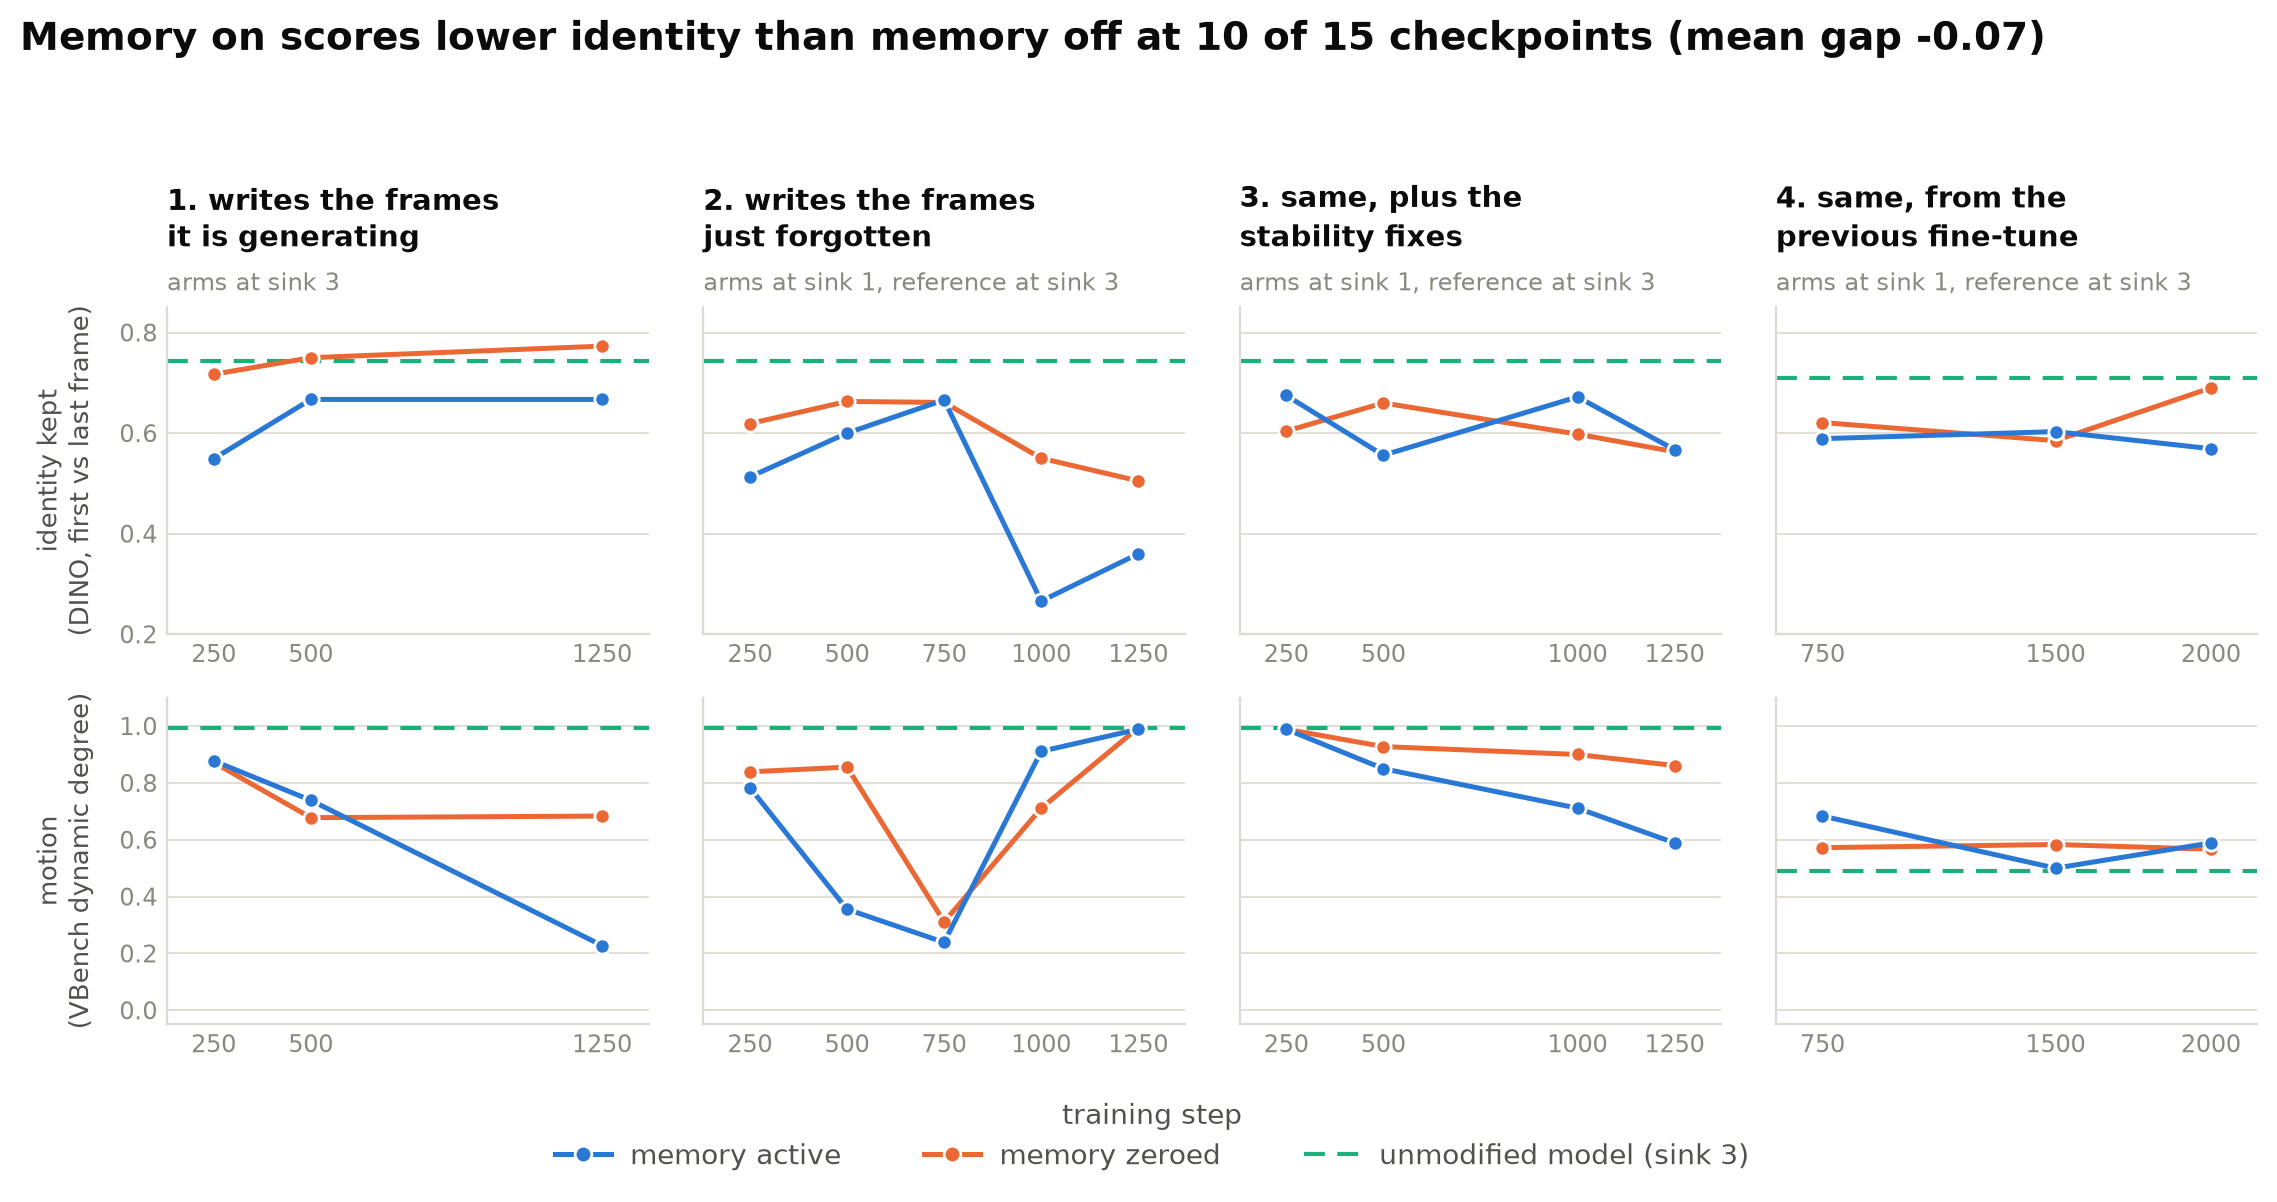
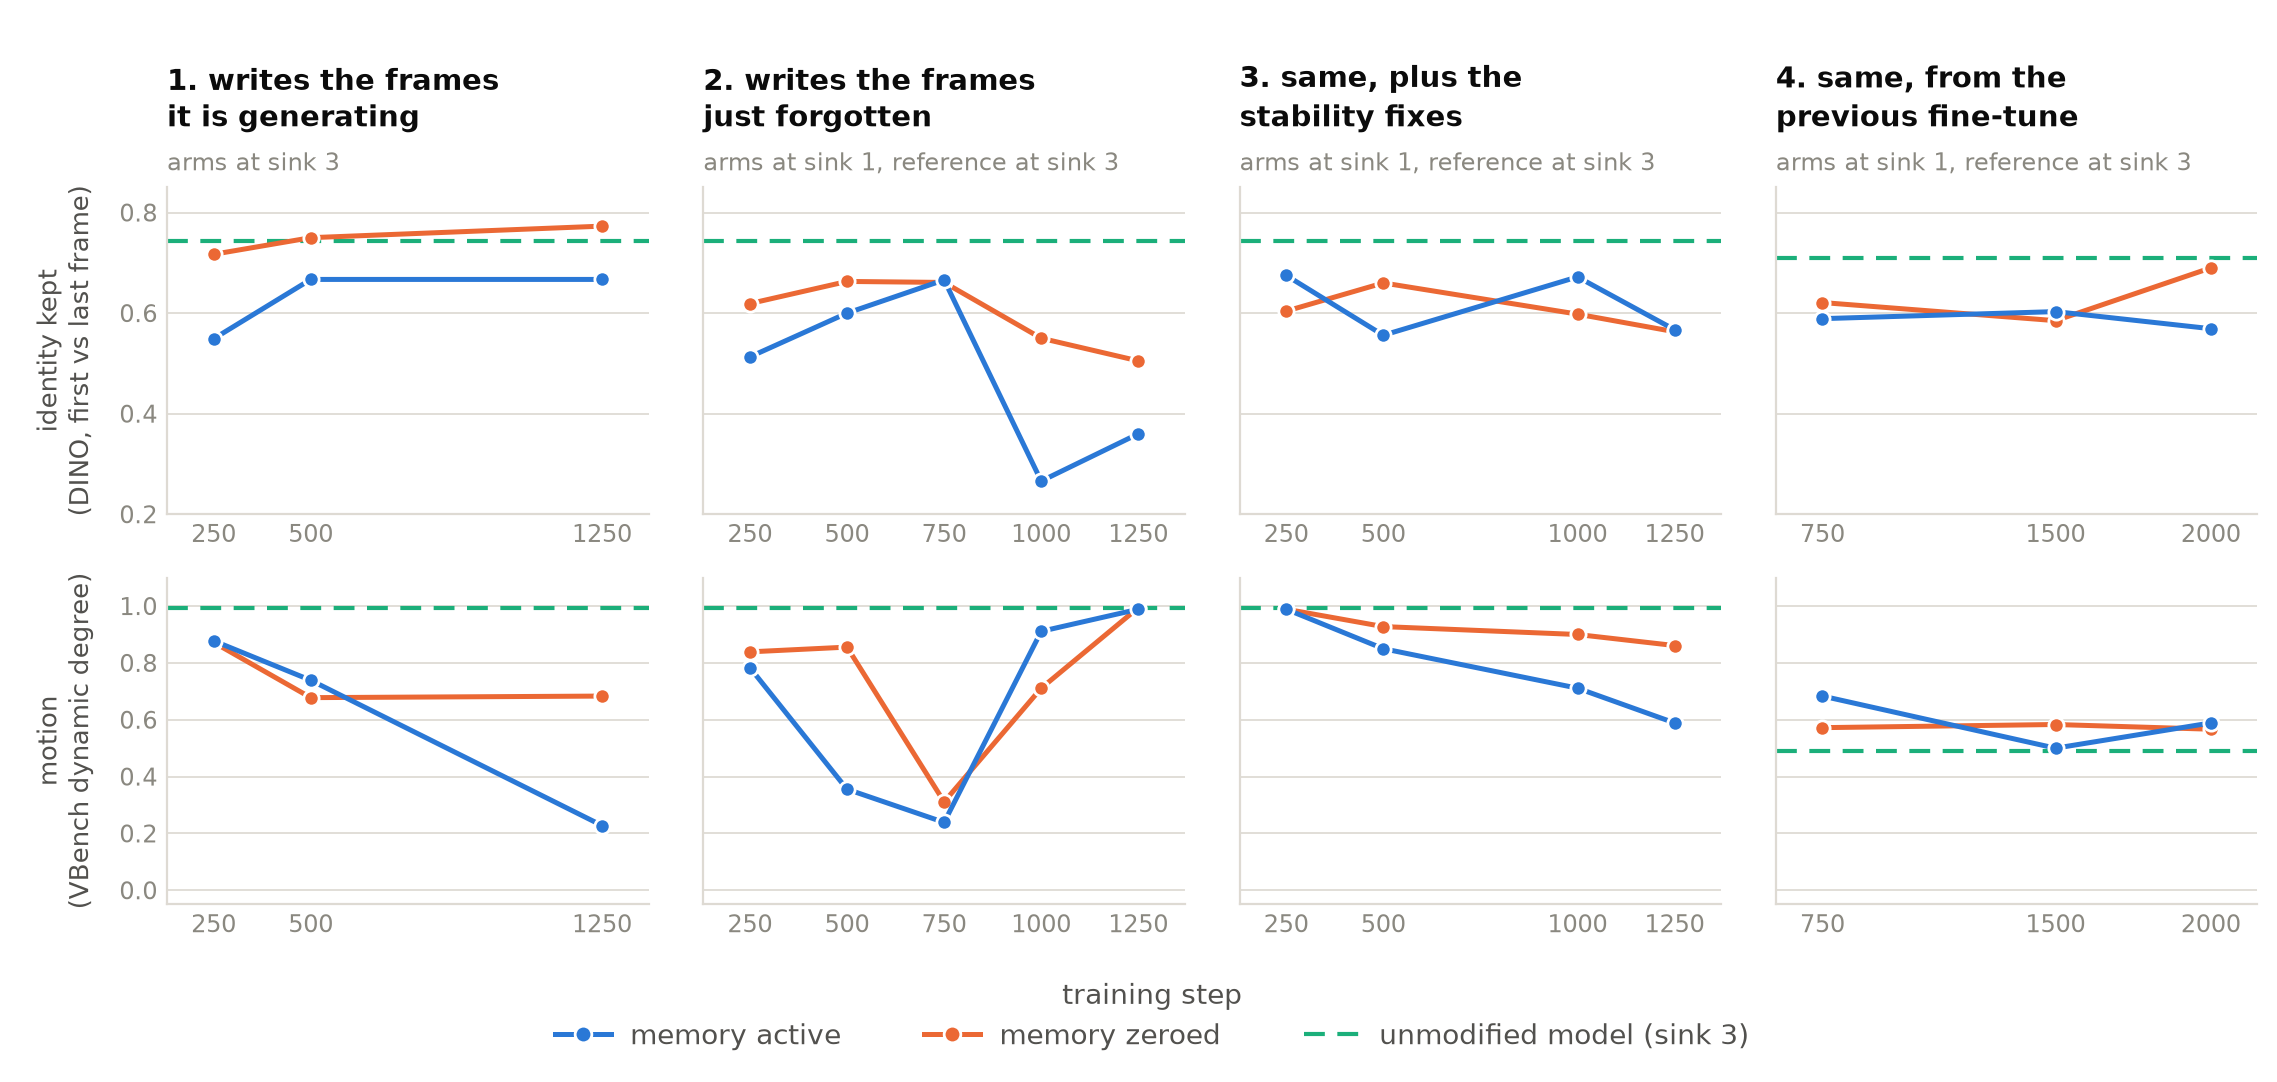
wording

diff --git a/videomemory/index.html b/videomemory/index.html
@@ -68,16 +68,16 @@ subject's appearance starts to drift. After benchmarking eight such models, I ad
 fast-weight memory to the best of them (<a href="https://github.com/Wan-Video/Wan2.1">Wan2.1-T2V-1.3B</a> with
 <a href="https://github.com/vivoCameraResearch/Anchor-Forcing">Anchor-Forcing</a>): an MLP added to a few
 transformer blocks, whose weights are updated during generation, with each chunk that leaves
-the attention window. I trained it in four runs and evaluated every checkpoint twice, with the
-memory active and with it zeroed. Identity was lower with the memory active at 10 of the 15
+the attention window. I trained it in several runs and evaluated every checkpoint twice, with the
+memory active and with it zeroed. Identity was lower with the memory active at two thirds of the
 checkpoints. The checkpoints that froze got high subject-consistency scores from VBench, which
 suggests that the objective and the metrics reward frames that resemble the previous ones, and a
 memory can provide that without recalling the subject.</p>
 
 <h2>Starting point</h2>
 <p>Before adding anything, I compared recent streaming video models built on Wan2.1-T2V-1.3B,
-running each released model on the same prompts: six 60-second videos from a single prompt, and
-nine 60-second stories told in six prompts.</p>
+running each released model on the same prompts: 60-second videos from a single prompt, and
+60-second stories told over a sequence of prompts.</p>
 
 <figure class="wide">
   <a href="assets/benchmark_fox.jpg"><img src="assets/benchmark_fox.jpg" alt="One frame every 10 seconds of a 60-second video of a red fox in a snowy forest, for seven streaming video methods."></a>
@@ -101,8 +101,7 @@ nine 60-second stories told in six prompts.</p>
   </tbody>
 </table>
 </div>
-<p class="note">Six prompts and one seed per method. ShotStream generates 30 seconds instead of
-60.</p>
+<p class="note">ShotStream generates 30 seconds instead of 60.</p>
 
 <p>Anchor-Forcing had the highest quality and the most motion on both sets. On the multi-prompt
 stories its quality score was 85.7, against 77.1 for LongLive. I built on it, after reproducing it
@@ -144,14 +143,14 @@ instead. The gate is bounded and computed from the read, so the branch can stay 
 when the memory has nothing relevant to add.</p>
 
 <h2>Results</h2>
-<p>All four runs fine-tune the model with <a href="https://arxiv.org/abs/2311.18828">DMD</a>
+<p>All runs fine-tune the model with <a href="https://arxiv.org/abs/2311.18828">DMD</a>
 distillation, training LoRA adapters and the memory together on 4 GPUs. Run 2 also removes the
 sink in 30% of its training rollouts, leaving the memory as the only carrier of the start of the
 video. Run 3 adds limits on the memory: its injection is capped at half the residual stream's
 RMS, its learning rate is halved, its gradients are clipped, and its state can decay. Run 4 is
 run 3 started from <a href="https://arxiv.org/abs/2509.22622">LongLive</a>'s released LoRA
 instead of Anchor-Forcing's, and its dashed reference line is that model.</p>
-<p>Each checkpoint generates videos of about one minute from the same six prompts and the same
+<p>Each checkpoint generates videos of about one minute from the same prompts and the same
 noise, once with the memory active and once with it zeroed. Identity uses
 <a href="https://arxiv.org/abs/2304.07193">DINOv2</a>, and motion is
 <a href="https://arxiv.org/abs/2311.17982">VBench</a>'s dynamic degree, the share of clips it
@@ -161,8 +160,8 @@ rates as dynamic.</p>
   <a href="assets/results.png"><img src="assets/results.png" alt="Identity and motion against the training step for four training runs, with the memory active and zeroed."></a>
 </figure>
 
-<p>With the memory active, identity is lower at 10 of the 15 checkpoints, and the mean
-difference over all 15 is −0.07. In runs 1 to 3 the checkpoints lose
+<p>With the memory active, identity is lower at two thirds of the checkpoints, and the mean
+difference over all of them is −0.07. In runs 1 to 3 the checkpoints lose
 motion against the reference even with the memory zeroed.</p>
 <p>Two memory-active checkpoints, run 1 at step 1250 and run 2 at step 750, have almost no motion
 left: VBench rates only 23% and 24% of their clips as dynamic. It still gives them a subject
@@ -184,13 +183,12 @@ decoded from my memory's state by a decoder trained offline.</p>
     <tr><th>Change in identity at the return</th><th>LongLive</th><th>Frame bank</th><th>Real frame</th><th>Decoded frame</th></tr>
   </thead>
   <tbody>
-    <tr><td>A opens the video (5 scenarios)</td><td>+0.15 to +0.25</td><td>+0.20 to +0.30</td><td>+0.22 to +0.33</td><td>−0.01 to +0.13</td></tr>
-    <tr><td>A appears later (2 scenarios)</td><td>−0.10, −0.06</td><td>+0.03, +0.09</td><td>+0.03, +0.09</td><td>+0.43, +0.36</td></tr>
+    <tr><td>A opens the video</td><td>+0.15 to +0.25</td><td>+0.20 to +0.30</td><td>+0.22 to +0.33</td><td>−0.01 to +0.13</td></tr>
+    <tr><td>A appears later</td><td>−0.10 to −0.06</td><td>+0.03 to +0.09</td><td>+0.03 to +0.09</td><td>+0.36 to +0.43</td></tr>
   </tbody>
 </table>
 </div>
-<p class="note">24 videos per scenario. In the second row only the decoded frame is significant
-(24 of 24 and 23 of 24 videos improve).</p>
+<p class="note">In the second row only the decoded frame improves on nearly every video.</p>
 
 <p>When A opens the video, the methods that reuse real frames win, because the frames kept from
 the start of the video already show A. When A appears later, they fail. Those first frames stay in
@@ -207,13 +205,12 @@ memory holds plays no measurable part.</p>
 like the ones before them. Chunk-by-chunk distillation does not penalize a video that stops
 moving, and subject consistency goes up when it does. A memory trained this way can satisfy both
 by freezing the video, or by adding the same offset to every frame, without storing anything about
-the subject. I tested one write rule, one objective and one model, and cannot say how far this
-generalizes.</p>
+the subject. I cannot say how far this generalizes beyond this write rule, objective and
+model.</p>
 <h2>Limitations</h2>
-<p>Each point uses one seed and six prompts, and no measurement was repeated, so there is no
-estimate of the noise. Runs 2 to 4 were evaluated with a single sink frame and the reference with
-three. On the one checkpoint measured both ways, that difference alone costs 0.06 to 0.09 of
-identity, as much as the effects above. Outside run 1, only the comparison between the memory
+<p>No measurement was repeated, so there is no estimate of the noise. Runs 2 to 4 were evaluated
+with a single sink frame and the reference with three. Measured both ways, that difference alone
+costs 0.06 to 0.09 of identity, as much as the effects above. Outside run 1, only the comparison between the memory
 active and the memory zeroed is fair.</p>
 
 <footer>
